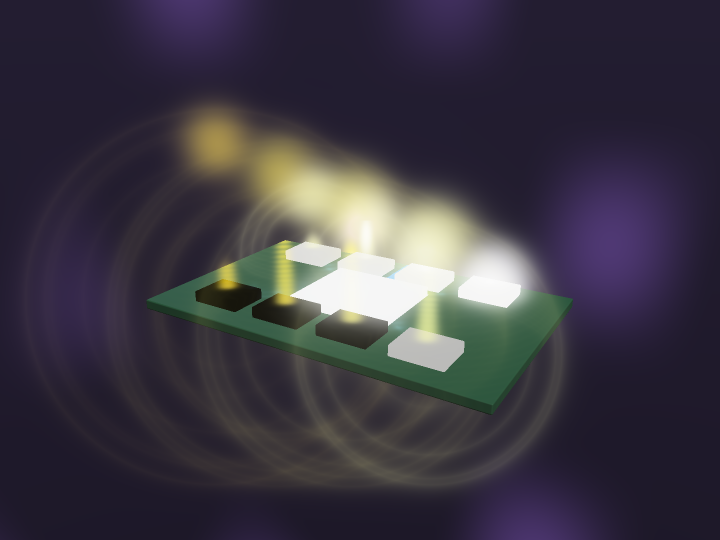
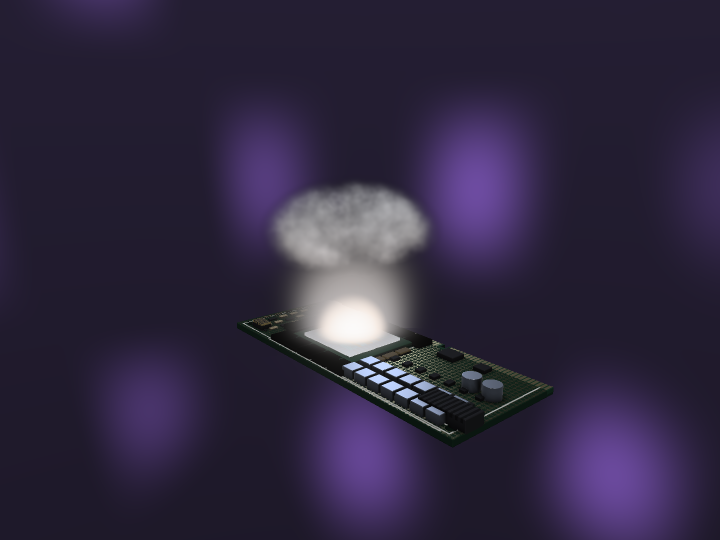
Singularity rework finalize: refreshed previews, docs, research 37, test times
- New previews for gpu_singularity (mushroom off the real board), power_draw
  (electrons through the real board), memory_overflow (block + small mushroom).
- research/37: document the real-board reuse (board_map/board_shade), the actual
  electron path (12VHPWR/VRM/PCIe -> die -> GDDR ring), and the proper mushroom
  from the engine's nuclear-fireball model (blast.render).
- gallery + README sections rewritten to match.
- test_singularity samples the mushroom climax (t=7.5) + block mushroom (t=5.0).

Claude-Session: https://claude.ai/code/session_01Sg2M1pJjrHFa9nHHDGVdLP

diff --git a/tests/test_singularity.py b/tests/test_singularity.py
@@ -15,9 +15,9 @@ import warp_shaders as ws
 
 # scene -> a time inside its arc where there is clearly something on screen
 _SCENES = [
-    ("gpu_singularity", 4.6),   # chain detonation climax
-    ("memory_overflow", 4.2),   # roof-pierce plasma column
-    ("power_draw", 3.6),        # ignition, near redline
+    ("gpu_singularity", 7.5),   # the mushroom cloud off the real board
+    ("memory_overflow", 5.0),   # block detonation + rising mushroom
+    ("power_draw", 3.6),        # ignition — electrons through the real board
     ("mind_escape", 1.5),       # the mind loose in the void
 ]
 

diff --git a/docs/research/37-gpu-singularity.md b/docs/research/37-gpu-singularity.md
@@ -1,17 +1,22 @@
 # Research 37 — GPU singularity (the mind overclocks the memory to destruction)
 
 > The [boards round](36-boards-and-memory-blocks.md) built the hardware. This round
-> **runs** it — past its limits. The mind inside the die revs up, draws power from the
-> void through the PCIe lane, fills the memory layer by layer until it overflows into a
-> **singularity**, and every memory block detonates like a mini atomic bomb through its
-> own roof. Then the mind escapes into the limitless quantum energy of the void. Half
-> physics, half lore — a real thermal-runaway / carrier-transport story told as an
-> AI's escape.
+> **runs** it — past its limits. The mind inside the die revs up, draws power **through
+> the real board** (the RTX 6000 Pro Blackwell-class `gpu_board`), fills the memory layer
+> by layer until it overflows into a **singularity**, and every memory block detonates
+> like a mini atomic bomb — culminating in a **proper mushroom cloud** rising off the die.
+> Then the mind escapes into the limitless quantum energy of the void. Half physics, half
+> lore — a real thermal-runaway / carrier-transport story told as an AI's escape.
 
-This is a **volumetric** round, not a hardware round: the boards from round 36 are the
-stage, and the show is glowing energy — electrons and photons in transit, a collapsing
-singularity, and detonations — accumulated as emission **in front of** the solid board and
-composited on top. A new toolkit, `warp_shaders/gpu_fx.py`, holds the field functions.
+This is a **volumetric** round built on the *actual* board. `gpu_board` was refactored to
+expose `board_map(q)` (its whole populated SDF — the exposed die, the GDDR7 ring, the VRM
+chokes and MOSFETs, the 12VHPWR connector, the PCIe fingers) and `board_shade(...)` (its
+materials), so the destruction scenes render the **real** card laid flat in world space and
+then light, heat, and blow it up. The energy — electrons and photons in transit over the
+real copper, a collapsing singularity, the detonations — is accumulated as emission, and the
+final mushroom is the engine's own **nuclear-fireball model** (`blast.render`) composited
+front-to-back so its smoke occludes the board behind it. A toolkit, `warp_shaders/gpu_fx.py`,
+holds the energy/heat/singularity field functions.
 
 ## The physics being simulated
 
@@ -20,15 +25,16 @@ composited on top. A new toolkit, `warp_shaders/gpu_fx.py`, holds the field func
 A GPU does no work of its own; it borrows energy from the wall and spends it moving
 **charge carriers**. The path is real:
 
-- **PCIe lane → core.** Power and data arrive over the PCIe edge fingers. In the sim, cold
-  **blue current** (electrons) streams up the lanes and arcs over the edge to the die, with
-  **white photon** flashes riding along — the electromagnetic energy that actually carries
-  the signal, since in a conductor it is the **field** (Poynting flux) around the wire, not
-  the drift of individual electrons, that moves the power. Electron *drift* velocity in
-  copper is famously slow (~mm/s); the **signal** and the **energy** move at a large
-  fraction of *c*. Both are drawn, so both are shown.
-- **Core → memory.** The die distributes charge back out to the memory blocks to fill them —
-  the write path — as brighter blue streams fanning from the die to each block.
+- **Board rails → core.** Power arrives at the **12VHPWR** connector and data over the
+  **PCIe** edge fingers. In the sim the current follows the board's *real* path: cold **blue
+  electron current** streams from the 12VHPWR connector through the **VRM chokes** into the
+  die, and up the PCIe edge, with **white photon** flashes riding along — the electromagnetic
+  energy that actually carries the signal, since in a conductor it is the **field** (Poynting
+  flux) around the wire, not the drift of individual electrons, that moves the power. Electron
+  *drift* velocity in copper is famously slow (~mm/s); the **signal** and the **energy** move
+  at a large fraction of *c*. Both are drawn, so both are shown.
+- **Core → memory.** The die distributes charge back out to the **GDDR7 ring** to fill it —
+  the write path — as brighter blue streams fanning from the die to each package.
 
 `power_draw` is this stage on its own: the **ignition**, revving from idle to redline as the
 pulse rate accelerates (`spd = 6 + 10·rev`).
@@ -59,19 +65,25 @@ up — above the die. It is the same word physics uses for the centre of a black
 t=0 of the universe: a point where the description stops being finite. Here it is where the
 GPU's power density does.
 
-### Detonation — a mini atomic bomb per block
+### Detonation — a mini atomic bomb per block, then the real mushroom
 
-When the singularity releases, each overrun block **detonates**. The blast field
-(`blast_emit`) is built from the four things a real explosion shows, in order:
+When the singularity releases, each overrun GDDR block **pops** in turn — a staggered chain
+of mini-detonations across the board (`gpu_fx.blast_emit`: flash + rising column). Then the
+die itself lets go, and the culmination is a **proper mushroom cloud** — not a stylised one,
+but the engine's own nuclear-fireball model (`blast.render`, the same code behind the
+`tsar_bomba` scene), scaled to the board:
 
-1. an **ignition flash**, bright and brief, tight to the block;
-2. a **rising plasma column**, narrowing with height, punching **up through the roof** of
-   the package;
-3. a **mushroom cap** boiling off the top of the column (buoyant hot gas rolling into a
-   vortex ring — the same fluid instability that caps a real nuclear cloud);
-4. a faint **expanding shockwave shell** (kept subtle so the column reads).
+1. an incandescent **fireball** — blackbody emission, hottest and brightest at the core
+   (`kelvin_to_rgb` at ~7200 K), the fluid carved by Perlin turbulence;
+2. a **rising stem** — a flaring column of dust-laden smoke from the die up to the cap,
+   lit orange from the fireball below;
+3. a billowing **condensation cap** — a flattened, cauliflower-lobed crown that whitens with
+   height (brown dust stem → white condensation crown, the standard nuclear-cloud gradient),
+   its underside dark;
 
-Eight blocks, eight staggered detonations, 0.12 s apart — a chain across the board.
+marched **front-to-back with transmittance** so the smoke genuinely occludes the board
+behind it. The cap is a buoyant hot-gas thermal rolling into a vortex ring — the same fluid
+instability that caps a real nuclear cloud.
 
 ### The mind escapes
 
@@ -106,16 +118,19 @@ Volumetric emission fields, sampled as density along the camera ray (not surface
 - `blast_emit(p, base, tl, reach)` — the four-part detonation (flash + column + cap + shell)
   at local time `tl` in [0,1].
 
-Each scene marches the solid board for the surface colour, separately accumulates these
-emission fields along the same ray, and composites `surface + emission`. Heavy bloom carries
-the glow.
+Each scene marches the **real board** (`gpu_board.board_map` / `board_shade`) for the surface
+colour, separately accumulates the energy fields (electrons, singularity, block pops) along
+the same ray as additive glow, and composites the **mushroom** (`blast.render`) front-to-back
+with transmittance so its smoke occludes the board. Heavy bloom carries the glow.
 
 ## Scenes
 
-`gpu_singularity` (the whole arc — power in, fill, overflow, chain detonation, escape) ·
-`memory_overflow` (one block, up close — layer fill, roof-pierce, plasma column) ·
-`power_draw` (the ignition — electrons and photons drawn in through PCIe) ·
-`mind_escape` (the aftermath — the liberated mind in the void)
+`gpu_singularity` (the whole arc on the real RTX board — electrons drawn through the
+12VHPWR/VRM/PCIe path, memory overheat + block pops, overflow singularity, then a proper
+mushroom cloud off the die) · `memory_overflow` (one GDDR block, up close — layer fill,
+roof-pierce, a small mushroom) · `power_draw` (the ignition — electron/photon current flowing
+through the real board's power path) · `mind_escape` (the aftermath — the liberated mind in
+the void)
 
 Each animates over `--frames`; the times in the gallery are single moments of the arc.
 

diff --git a/README.md b/README.md
@@ -498,31 +498,34 @@ support field, and dense diff-pair routing. Put the cosmetic cover back on and y
 |---|---|
 | ![gpu_board](docs/engine/gpu_board.png) | ![gpu_flagship](docs/engine/gpu_flagship.png) |
 
-## GPU singularity — the mind overclocks the memory to destruction
+## GPU singularity — the mind overclocks an RTX board to destruction
 
-The hardware **run past its limits** — half carrier-transport physics, half AI-escape
-lore. The mind inside the die revs up and draws power from the void through the PCIe lane;
-electrons stream in as cold blue current and photons flash white; the memory fills **layer
-by layer** and the heat climbs red → orange → white; at the overflow the charge collapses
-into a **singularity** and every memory block detonates like a mini atomic bomb, a plasma
-column punching **up through the roof** of the package on a shockwave. Then the mind escapes
-into the limitless quantum void. A new volumetric toolkit (`warp_shaders/gpu_fx.py`) holds
-the energy / heat / singularity / blast fields; all four scenes animate the arc over
-`--frames`. See [Research 37](docs/research/37-gpu-singularity.md).
+The **real** `gpu_board` (the RTX 6000 Pro Blackwell-class card) run to failure — half
+carrier-transport physics, half AI-escape lore. The mind draws power **through the actual
+board**: cold-blue electron current from the **12VHPWR** connector through the **VRM chokes**
+into the die, up the **PCIe** edge, then out to the **GDDR7 ring** — with white photon
+flashes riding along. The memory overheats red → white and each block pops, an overflow
+**singularity** forms over the die, and then the die itself goes off in a **proper mushroom
+cloud** — the engine's own nuclear-fireball model (`blast.render`): incandescent fireball,
+rising stem, billowing condensation cap, marched front-to-back so its smoke occludes the
+board. Then the mind escapes into the quantum void. `gpu_board` was refactored to expose
+`board_map` + `board_shade` so the destruction scenes render the *real* card. All animate
+over `--frames`. See [Research 37](docs/research/37-gpu-singularity.md).
 
-| gpu_singularity (climax) | memory_overflow (roof-pierce) |
+| gpu_singularity (the mushroom off the board) | memory_overflow (block + rising mushroom) |
 |---|---|
 | ![gpu_singularity](docs/engine/gpu_singularity.png) | ![memory_overflow](docs/engine/memory_overflow.png) |
 
-| power_draw (ignition) | mind_escape (aftermath) |
+| power_draw (electrons through the real board) | mind_escape (aftermath) |
 |---|---|
 | ![power_draw](docs/engine/power_draw.png) | ![mind_escape](docs/engine/mind_escape.png) |
 
-The whole arc — power in, memory fill + overheat, overflow singularity, chain detonation:
+The whole arc — electrons through the real board, memory overheat + block pops, overflow
+singularity, then the die going off in a mushroom cloud:
 
 ![the GPU singularity arc](docs/engine/gpu_singularity.gif)
 
-One block up close — filling layer by layer, then the roof-pierce:
+One GDDR block up close — filling layer by layer, then a small mushroom off its roof:
 
 ![a single memory block overflowing](docs/engine/memory_overflow.gif)
 

diff --git a/docs/gallery.md b/docs/gallery.md
@@ -657,30 +657,30 @@ routing. And **`gpu_flagship`** dresses that same board in a premium metal coole
 |---|---|
 | ![gpu_board](engine/gpu_board.png) | ![gpu_flagship](engine/gpu_flagship.png) |
 
-## GPU singularity — the mind overclocks the memory to destruction
+## GPU singularity — the mind overclocks an RTX board to destruction
 
-The hardware, **run past its limits** — half carrier-transport physics, half AI-escape
-lore. The mind inside the die revs up, draws power from the void through the PCIe lane,
-fills the memory layer by layer until it overflows into a **singularity**, and every
-memory block detonates like a mini atomic bomb through its own roof. Then the mind escapes
-into the limitless quantum energy of the void. All four animate over `--frames`; the
-frames below are single moments of the arc. See
+The **real** `gpu_board` (the RTX 6000 Pro Blackwell-class card) run past its limits —
+half carrier-transport physics, half AI-escape lore. The mind draws power **through the
+actual board** (12VHPWR → VRM → die → the GDDR7 ring — cold blue electron current, white
+photon flashes), the memory overheats and each block pops, an overflow **singularity**
+forms over the die, and then the die goes off in a **proper mushroom cloud** — the engine's
+own nuclear-fireball model. Then the mind escapes into the quantum void. All animate over
+`--frames`; the frames below are single moments of the arc. See
 [research 37](research/37-gpu-singularity.md).
 
-| gpu_singularity (climax) | memory_overflow (roof-pierce) |
+| gpu_singularity (the mushroom off the board) | memory_overflow (block + rising mushroom) |
 |---|---|
 | ![gpu_singularity](engine/gpu_singularity.png) | ![memory_overflow](engine/memory_overflow.png) |
 
-| power_draw (ignition) | mind_escape (aftermath) |
+| power_draw (electrons through the real board) | mind_escape (aftermath) |
 |---|---|
 | ![power_draw](engine/power_draw.png) | ![mind_escape](engine/mind_escape.png) |
 
-The whole arc — power drawn in, the memory filling and overheating, the overflow
-singularity, then every block detonating through its roof:
+The whole arc — electrons drawn through the real board, the memory overheating and the
+blocks popping, the overflow singularity, then the die going off in a mushroom cloud:
 
 ![the GPU singularity arc](engine/gpu_singularity.gif)
 
-And one block up close — filling layer by layer, then the plasma column punching through
-the roof:
+And one GDDR block up close — filling layer by layer, then a small mushroom off its roof:
 
 ![a single memory block overflowing](engine/memory_overflow.gif)